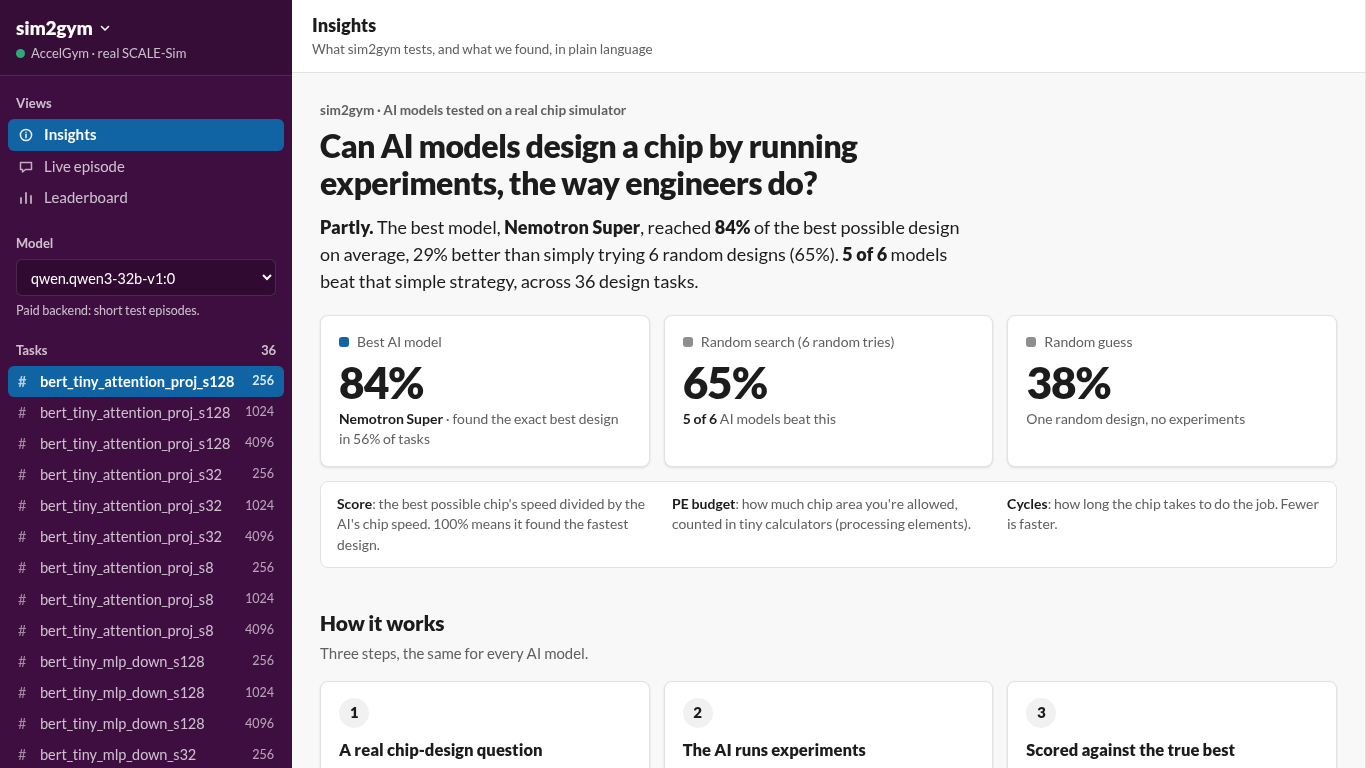
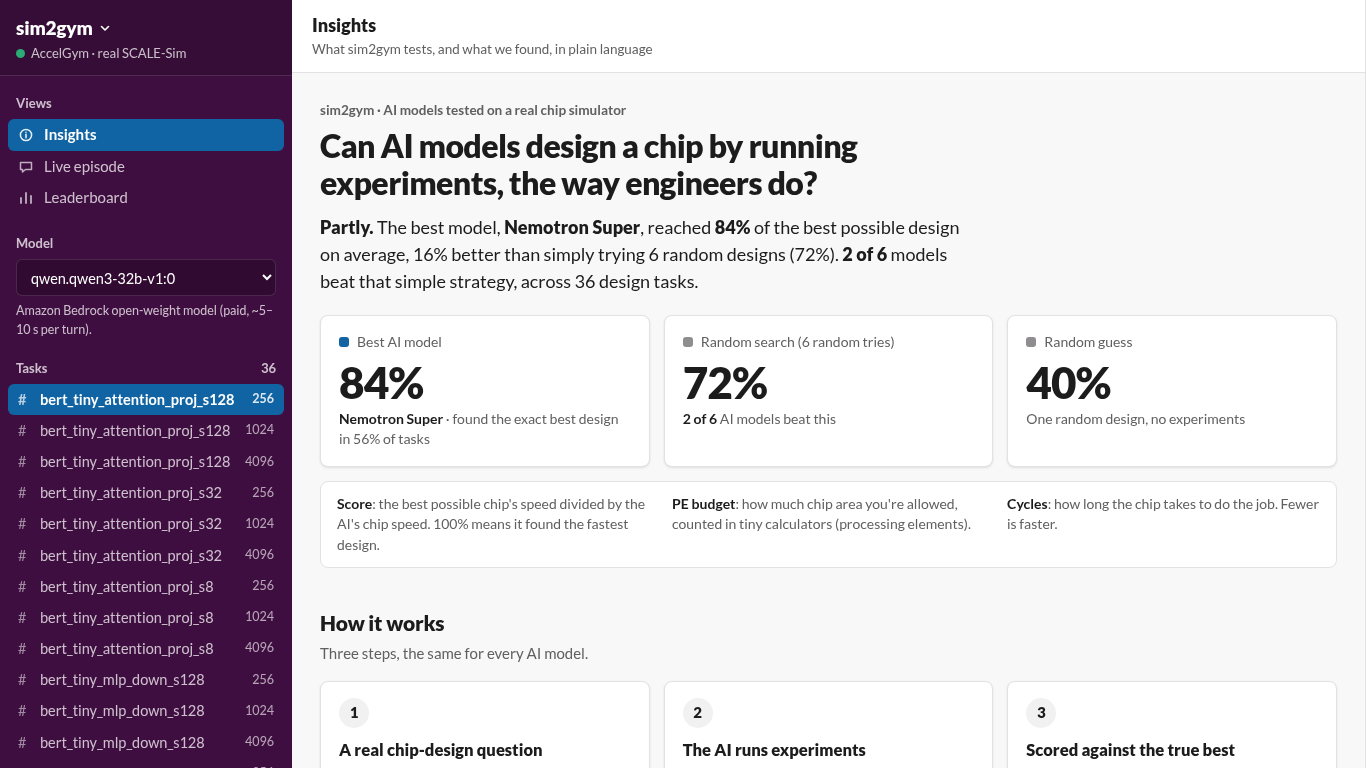
Insights uses exact random-search baselines; fix /insights on a fresh server
Follow-up to the exact-baselines merge: the Insights page compared models
against one seeded 6-probe draw (0.650, "5 of 6 beat it"). It now uses the
exact expectation (0.723, 2 of 6), matching the README and leaderboard.

/insights read the task cache directly, so the first request on a fresh
server returned ready=false. It now loads the tasks file like other
endpoints; regression test added. 132 tests pass.

diff --git a/src/sim2gym/insights.py b/src/sim2gym/insights.py
@@ -23,10 +23,13 @@ FRIENDLY = {
 }
 BASELINE_NAMES = {
     "oracle": "Best possible (every design tried)",
-    "6-probe": "Random search (6 random tries)",
+    "6-probe (exact expectation)": "Random search (6 random tries)",
     "max-square-ws": "Rule of thumb (biggest square chip)",
-    "random": "Random guess",
+    "random (exact expectation)": "Random guess",
 }
+# One seeded draw of a random baseline is luck; we show its exact expectation over every possible draw instead.
+SEEDED = {"6-probe": "6-probe (exact expectation)", "random": "random (exact expectation)"}
+PROBE, RANDOM = SEEDED["6-probe"], SEEDED["random"]
 
 
 def _label(model: str) -> str:
@@ -100,15 +103,21 @@ def build_insights(tasks: list[dict], results_dir) -> dict:
             "no_sim_rate": sum(1 for r in rs if not r.get("sim_calls_used")) / n,
             "params_b": FRIENDLY.get(m, (None, None))[1],
         })
+    table = [x for x in table if x["id"] not in SEEDED]
+    for e in report.expected_baseline_rows(tasks, h):
+        table.append({"id": e["model"], "label": _label(e["model"]), "baseline": True, "exact": True, "n": e["n"],
+                      "mean_score": e["mean_score"], "solve_rate": e["solve_rate"],
+                      "feasible_rate": e["feasible_rate"], "mean_sim_calls": e["mean_sim_calls"],
+                      "oversize_rate": None, "no_sim_rate": None, "params_b": None})
     table.sort(key=lambda x: -x["mean_score"])
     models = [x for x in table if not x["baseline"]]
     base = {x["id"]: x for x in table if x["baseline"]}
-    if not models or "6-probe" not in base:
+    if not models:
         return {"ready": False, "how_it_works": HOW_IT_WORKS}
 
     best = models[0]
-    probe = base["6-probe"]["mean_score"]
-    rand = base["random"]["mean_score"] if "random" in base else None
+    probe = base[PROBE]["mean_score"]
+    rand = base[RANDOM]["mean_score"]
     beat = [x for x in models if x["mean_score"] > probe]
     headline = {"best_model": best["label"], "best_score": best["mean_score"], "probe_score": probe,
                 "random_score": rand, "oracle_score": base.get("oracle", {}).get("mean_score", 1.0),
@@ -125,12 +134,12 @@ def build_insights(tasks: list[dict], results_dir) -> dict:
         findings.append({
             "id": "experiment", "title": "AIs that experiment design better chips",
             "stat": f"{exp_avg:.0%}", "stat_label": "average score of AIs that ran about 5 experiments",
-            "body": f"{len(exp)} of {len(models)} AIs ran about 5 tests per task, and all of them beat random search "
-                    f"({probe:.0%}). {worst_lazy['label']} skipped testing on {worst_lazy['no_sim_rate']:.0%} of "
-                    f"tasks and answered from memory. It scored {worst_lazy['mean_score']:.0%}, worse than six random "
-                    f"tries." if all(x["mean_score"] > probe for x in exp) else
-                    f"AIs that ran about 5 tests averaged {exp_avg:.0%}; {worst_lazy['label']}, which mostly skipped "
-                    f"testing, scored {worst_lazy['mean_score']:.0%}.",
+            "body": f"{worst_lazy['label']} skipped testing on {worst_lazy['no_sim_rate']:.0%} of tasks and "
+                    f"answered from memory. It scored {worst_lazy['mean_score']:.0%}, below six random tries "
+                    f"({probe:.0%}). The {len(exp)} AIs that ran about 5 tests per task averaged {exp_avg:.0%}, but "
+                    + (f"all {len(exp)} beat random search." if all(x["mean_score"] > probe for x in exp) else
+                       f"only {sum(1 for x in exp if x['mean_score'] > probe)} of them beat random search: testing "
+                       f"is necessary, but the AI also has to learn from the results."),
             "takeaway": "When an AI assistant has engineering tools, require it to test before it answers, and check "
                         "that it actually did."})
     # 2. Size is not skill.

diff --git a/tests/test_insights.py b/tests/test_insights.py
@@ -25,13 +25,18 @@ def test_insights_numbers_match_leaderboard():
     tasks = load_tasks(ROOT / "tasks.jsonl")
     d = build_insights(tasks, ROOT / "results")
     assert d["ready"] and d["n_tasks"] == len(tasks)
-    lb = {r["model"]: r for r in report.build_leaderboard(ROOT / "results", task_set_hash(tasks))["rows"]}
+    lb = {r["model"]: r for r in report.build_leaderboard(ROOT / "results", task_set_hash(tasks), tasks)["rows"]}
     for row in d["rows"]:  # every number traces back to the same saved results as the leaderboard
         assert row["n"] == len(tasks)
         assert row["mean_score"] == pytest.approx(lb[row["id"]]["mean_score"])
     best = next(r for r in d["rows"] if not r["baseline"])
     assert d["headline"]["best_score"] == pytest.approx(best["mean_score"])
-    assert d["headline"]["probe_score"] == pytest.approx(lb["6-probe"]["mean_score"])
+    # Baselines are compared by their exact expectation, never by one seeded draw.
+    assert {r["id"] for r in d["rows"]}.isdisjoint({"6-probe", "random"})
+    assert d["headline"]["probe_score"] == pytest.approx(lb["6-probe (exact expectation)"]["mean_score"])
+    assert d["headline"]["random_score"] == pytest.approx(lb["random (exact expectation)"]["mean_score"])
+    assert d["headline"]["beat_probe"] == sum(1 for r in d["rows"] if not r["baseline"]
+                                              and r["mean_score"] > d["headline"]["probe_score"])
     assert {f["id"] for f in d["findings"]} >= {"oversize", "headroom"}
     ex = d["example"]
     assert ex is None or (ex["answer"]["cycles"] >= ex["optimum"]["cycles"] and len(ex["steps"]) >= 4)

diff --git a/tests/test_api.py b/tests/test_api.py
@@ -143,3 +143,14 @@ def test_runs_and_leaderboard(client):
     assert all("transcript" not in r for r in rec["results"])
     lb = client.get("/leaderboard").json()
     assert "rows" in lb and "markdown" in lb
+
+
+def test_insights_first_request_on_fresh_server(tmp_path):
+    """/insights must load the tasks file itself, not rely on an earlier request having loaded it."""
+    from pathlib import Path
+    root = Path(__file__).resolve().parents[1]
+    if not (root / "results").exists():
+        pytest.skip("no saved results")
+    c = TestClient(api.create_app(tasks_path=root / "tasks.jsonl", results_dir=root / "results"))
+    d = c.get("/insights").json()
+    assert d["ready"] is True and d["n_tasks"] == 36

diff --git a/src/sim2gym/api.py b/src/sim2gym/api.py
@@ -308,8 +308,7 @@ def create_app(tasks_path: str | os.PathLike | None = None, results_dir: str | o
     @app.get("/insights")
     def get_insights():
         """Plain-language analysis of the saved results on the default task set (complete runs only)."""
-        with lock:
-            ts = list(state["task_sets"].get("default", {}).get("tasks", []))
+        ts = list(task_sets().get("default", {}).get("tasks", []))  # loads the tasks file on a fresh server
         return insights.build_insights(ts, results_dir)
 
     # ---------------------------------------------------------- demo

diff --git a/README.md b/README.md
@@ -39,7 +39,7 @@ cp .env.example .env                 # put OPENROUTER_API_KEY=... in .env (gitig
 .venv/bin/sim2gym run tasks_eval.jsonl --model openrouter:nvidia/nemotron-3.5-super-vl:free --results results_eval
 .venv/bin/sim2gym report results_eval --tasks tasks_eval.jsonl -o leaderboard_eval.md
 .venv/bin/sim2gym serve                              # live demo at http://127.0.0.1:8765/  (API docs: /docs)
-.venv/bin/python -m pytest -q                        # 128 tests
+.venv/bin/python -m pytest -q                        # 131 tests
 ```
 
 The first `build` runs SCALE-Sim over the whole grid: 576 simulations, about 3.5 minutes with 6 workers. After that
